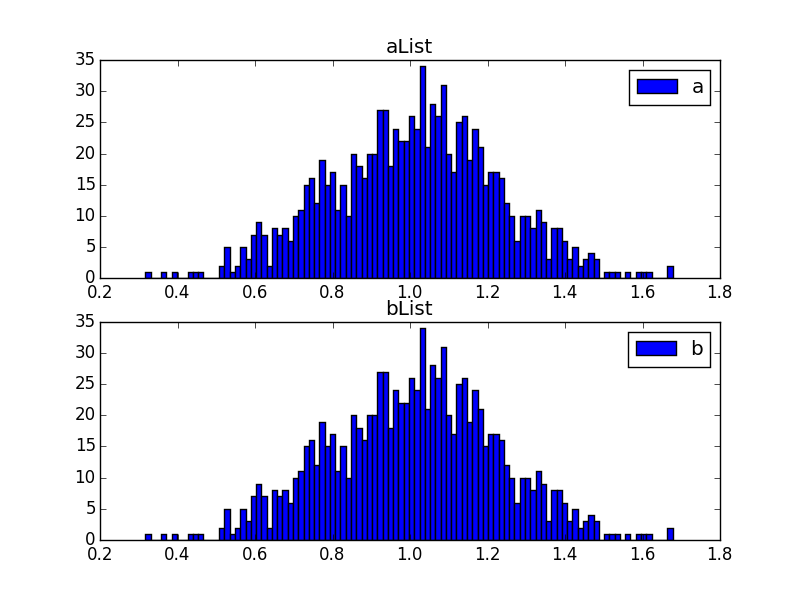
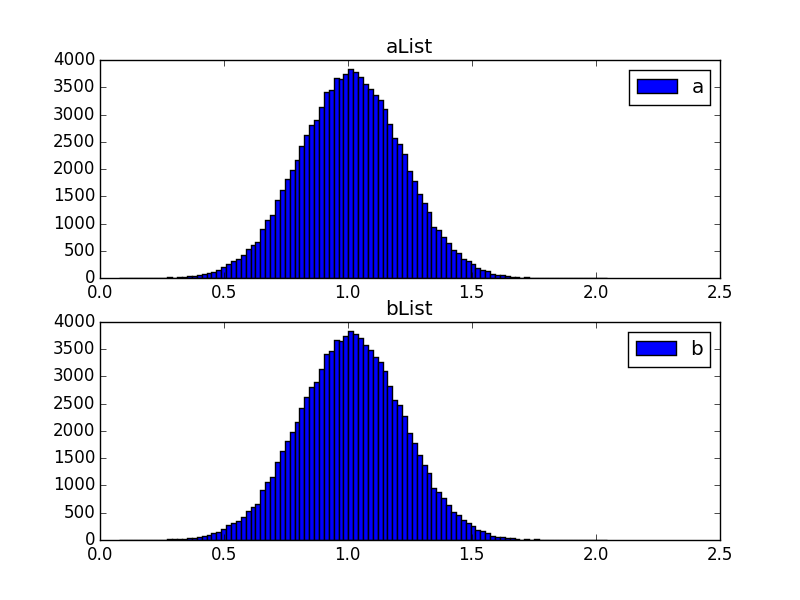
Updates
Fixed some issues with the Monte Carlo

diff --git a/plottingFunction.py b/plottingFunction.py
@@ -56,41 +56,13 @@ def plotxListHisto(histoDataA,histoDataB):
 	plt.subplot(2,1,1)
 	plt.bar(histoDataA[1][0:-1], histoDataA[0], histoDataA[1][1]-histoDataA[1][0])
 	plt.title('aList')
-	plt.legend('aList Binnbed','upper right')
+	plt.legend('aList Binned',loc='upper right')
 
 	plt.subplot(2,1,2)
 	plt.bar(histoDataB[1][0:-1], histoDataB[0], histoDataB[1][1]-histoDataB[1][0])
 	plt.title('bList')
-	plt.legend('bList Binned','upper right')
+	plt.legend('bList Binned',loc='upper right')
 
 	plt.savefig('aList, bList histograms.png')
 
-# def plotBinBar(lBarBins, dustofLBarBin, BBofLBarBin, yMeasuredBarBin, errorYMeasuredBarBin, vectorABarBin):
-# 	# Bar Chart Bin Plots
-# 	plt.close('all')
-
-# 	plt.subplot(2, 1, 1)
-# 	indices = np.arange(len(lBarBins))
-# 	bar_width = 0.8
-# 	plt.bar(indices, yMeasuredBarBin, bar_width, alpha = 0.5, color='b', yerr=errorYMeasuredBarBin)
-# 	plt.xlabel('lBarBins')
-# 	plt.ylabel('Intensity')
-# 	plt.title('yMeasuredBarBin Bar Chart')
-# 	plt.xticks(indices, ['{}'.format(l) for l in everynthlabel(lBarBins,0,3)])
-# 	plt.legend()
-# 	plt.tight_layout()
-
-# 	plt.subplot(2,1,2)
-# 	indices = np.arange(len(lBarBins))
-# 	bar_width = 0.8
-# 	plt.bar(indices, np.array(dustofLBarBin)*vectorABarBin[0], bar_width, alpha = 0.5, color='b', yerr=[0.2*max(np.array(dustofLBarBin)*vectorABarBin[0]) for x in dustofLBarBin])
-# 	plt.bar(indices, np.array(BBofLBarBin)*vectorABarBin[1], bar_width, alpha = 0.5, color='r', yerr=[0.2*max(np.array(BBofLBarBin)*vectorABarBin[1]) for x in BBofLBarBin])
-# 	plt.xlabel('lBarBins')
-# 	plt.ylabel('Intensity')
-# 	plt.title(vectorABarBin)
-# 	plt.xticks(indices, ['{}'.format(l) for l in everynthlabel(lBarBins, 0, 3)])
-# 	plt.legend()
-# 	plt.tight_layout()
-
-# 	plt.savefig("barplots.png")
 

diff --git a/main.py b/main.py
@@ -56,22 +56,12 @@ bestFitBin = [D*vectorABin[0]+B*vectorABin[1] for D, B in zip(dustofLBin, BBofLB
 errorBestFitBin = [0.2*max(bestFitBin) for x in bestFitBin]
 
 
-# Bar chart function lists
-# lBarBins = range(xMin, xMax, xStep)
-# dustofLBarBin = binBarData(dustofLList, xAxis)
-# BBofLBarBin = binBarData(BBofL, xAxis) 
-# YListBarBin = [dustofLBarBin, BBofLBarBin] 
-# yMeasuredBarBin = binBarData(yMeasured, xAxis)
-# errorYMeasuredBarBin = [0.2*max(yMeasuredBarBin) for x in yMeasuredBarBin]
-# vectorABarBin = matrixFit(YListBarBin, yMeasuredBarBin, errorYMeasuredBarBin)
-
 print "vectorA: {0}  vectorABin {1}".format(vectorA, vectorABin)
 
 # Plotting Stuff
 plotScatter(xAxis, yMeasured, errorYMeasured, BBofL, dustofLList, vectorA, bestFit,yTheory)
 plotBinScatter(xAxis, lBinCenters, yMeasuredBin, errorYMeasuredBin, BBofLBin, errorBBofLBin, dustofLBin, errordustofLBin, vectorABin, bestFitBin, errorBestFitBin)
-# plotBinBar(lBarBins, dustofLBarBin, BBofLBarBin, yMeasuredBarBin, errorYMeasuredBarBin, vectorABarBin)
 
 # MonteCarlo
-monteCarloGen(YListBin, yMeasuredBin, errorYMeasuredBin, iterations = 1000)
+monteCarloGen(YListBin, yMeasuredBin, errorYMeasuredBin, iterations = 10**4)
 

diff --git a/Equations.py b/Equations.py
@@ -34,7 +34,9 @@ def binCenter(lBins):
 
 # averages the given data into bins of the given size
 def binData(data, xData, xStep = 20, bounds = "false", bot = 0, top = 360):
-    # This function breaks the data into bins and averages over that bin. It currently only does evenly sized bins.
+    # This function breaks the data into bins and averages over that bin. 
+    # It currently only does evenly sized bins. 
+    # Check out Bar Chart function for better bethod?
     if bounds == "true": xData = xData[bot:top]
     out = []
     index = 0
@@ -66,13 +68,3 @@ def binData(data, xData, xStep = 20, bounds = "false", bot = 0, top = 360):
 #         j += 1
 #     out.append(np.mean(temp))
 #     return out
-
-# returns every nth value of an array
-# def everynthlabel(a, start = 0, n = 2):
-#     newarray = []
-#     for i, x in enumerate(a[start:]):
-#         if i%n == 0:
-#             newarray.append(x)
-#         else:
-#             newarray.append('')
-#     return newarray

diff --git a/MonteCarlo.py b/MonteCarlo.py
@@ -6,7 +6,7 @@ import matplotlib.pyplot as plt
 from GeneralizedLeastSquaresFit import matrixFit
 from plottingFunction import plotCorrelation, plotxListHisto
 
-def monteCarloGen(TList, measured, std, iterations=100):
+def monteCarloGen(TList, measured, std, iterations=1000):
 # matrix Fit doesn't make an r-square value 
     # ---------------------------------------------------
     # Theoretical Values for a and b (slope and intercept)
